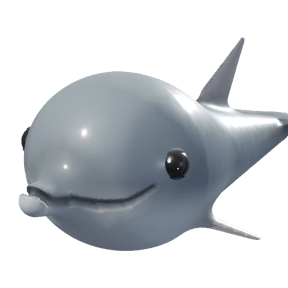
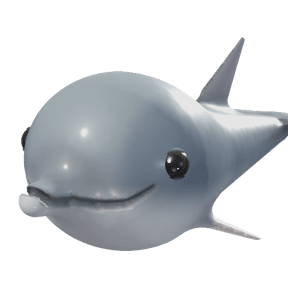
Figur & Hintergrund als je eine Karte, sechs neue Hintergruende, alle Tiere ueberarbeitet
- Gruppen als Zeilen einer Karte mit Zwischentitel und Haarlinie (auch im Onboarding)
- Kirschbluete, Gletscher, Mondnacht, Neon, Prisma, Sonnenstrahl (Lucenta+, 8 Sprachen)
- Licht fuer alle: warmes Gegenlicht von unten, etwas mehr Kontrast und Farbe
- Fuchs freundlicher, Dackel mit Kurzhaarfell, Schildkroete zum Betrachter, Wal groesseres Auge
pruef-alles 9/9.

diff --git a/tools/figuren_rendern/Tiere.swift b/tools/figuren_rendern/Tiere.swift
@@ -454,7 +454,7 @@ func fuchs() -> (SCNNode, Float, V) {
     })
     let w = SCNNode(); w.addChildNode(brustKnoten(koerper))
     tierNase(w, mitte: V(0, -0.290, 1.740), r: V(0.115, 0.08, 0.10), farbe: hex("#161112"))
-    augenEinsetzen(w, kopf, x: 0.34, y: 0.18, r: 0.19, iris: NSColor(calibratedRed: 0.93, green: 0.63, blue: 0.16, alpha: 1), pupille: 0.6, schlitz: true, schlitzBreite: 0.36, ausdruck: Ausdruck(oben: 0.08, unten: 0.15, schraeg: 0.10, funke: 1.4, wange: 0.30))
+    augenEinsetzen(w, kopf, x: 0.34, y: 0.18, r: 0.205, iris: NSColor(calibratedRed: 0.93, green: 0.63, blue: 0.16, alpha: 1), pupille: 0.62, schlitz: true, schlitzBreite: 0.52, ausdruck: Ausdruck(oben: 0.03, unten: 0.10, schraeg: 0.04, funke: 1.6, wange: 0.30))
     // Kopfhaltung je Tier verschieden (Auftrag des Inhabers: nicht alle in dieselbe Richtung).
     w.eulerAngles = SCNVector3(0.08, -0.48, -0.06)
     return (w, 7.6, V(0, 0.22, 0.2))
@@ -743,14 +743,14 @@ func dackel() -> (SCNNode, Float, V) {
         c = mische(c, hell, region(p, V(0, -0.30, 0.95), V(0.30, 0.18, 0.40), 0.4) * 0.5)
         c *= 1 - 0.20 * glatt(1.1, 1.45, p.z)                                    // Schnauzenspitze dunkler
         return c
-    }, rauheit: 0.56, fell: 0.02)
+    }, rauheit: 0.72, fell: 0.02)
     // Dackel: deutlicher Brauenwulst, dunkler schattiert — der treuherzige Dackelblick; Kurzhaar,
     // glatt und anliegend.
     var (braue, braueM) = mitBrauen(kopf, x: 0.27, y: 0.38, laenge: 0.11, dicke: 0.065, winkel: 0.38, farbe: dunkel, staerke: 0.75)
-    braue.haar = haarKarte(kopf, FellKarte(kopf: 0.014, rumpf: 0.016, nase: V(0, -0.17, 1.44), schnauze: 0.7,
+    braue.haar = haarKarte(kopf, FellKarte(kopf: 0.032, rumpf: 0.036, nase: V(0, -0.17, 1.44), schnauze: 0.7,
         augen: augenStellen(kopf, x: 0.30, y: 0.20), augenR: 0.15, braue: 0.3), braue: braueM)
     // Glattes Kurzhaar glaenzt: wenig Abstand, kaum Helligkeitsunterschied, glatte Haut darunter.
-    braue.fellArt = Fell(dichte: 160, dicke: 0.5, aufrecht: 0.15, neigung: 2.0, ursprung: V(0, -0.17, 1.44), wurzel: 0.85, spitze: 1.03, straehnen: 0.05, streuung: 0.04)
+    braue.fellArt = Fell(dichte: 120, dicke: 0.5, aufrecht: 0.32, neigung: 1.6, ursprung: V(0, -0.17, 1.44), wurzel: 0.78, spitze: 1.08, straehnen: 0.08, streuung: 0.07)
     // Dackel: lange Lefzen zwischen Schnauze und Unterkiefer, geschlossen.
     let maul = mitMaul(braue, Maul(kurven: [Kurve(punkte: [V(0, -0.26, 1.43), V(0, -0.32, 1.37)], spitzHinten: false)]
         + paar(Kurve(punkte: [V(0, -0.32, 1.37), V(0.09, -0.36, 1.24), V(0.16, -0.38, 1.04), V(0.21, -0.37, 0.82), V(0.24, -0.32, 0.70)], spitzVorn: false)),
@@ -761,7 +761,7 @@ func dackel() -> (SCNNode, Float, V) {
     })
     let w = SCNNode(); w.addChildNode(brustKnoten(koerper))
     tierNase(w, mitte: V(0, -0.17, 1.44), r: V(0.14, 0.10, 0.10), farbe: hex("#161010"))
-    augenEinsetzen(w, kopf, x: 0.30, y: 0.20, r: 0.16, iris: NSColor(calibratedRed: 0.40, green: 0.22, blue: 0.10, alpha: 1), pupille: 0.58, ausdruck: Ausdruck(oben: 0.08, unten: 0.00, schraeg: 0.38, funke: 1.7, wange: 0))
+    augenEinsetzen(w, kopf, x: 0.30, y: 0.20, r: 0.18, iris: NSColor(calibratedRed: 0.40, green: 0.22, blue: 0.10, alpha: 1), pupille: 0.58, ausdruck: Ausdruck(oben: 0.08, unten: 0.00, schraeg: 0.38, funke: 1.7, wange: 0))
     w.eulerAngles = SCNVector3(0.06, -0.50, 0)
     return (w, 8.0, V(0, 0.10, 0.25))
 }
@@ -912,7 +912,7 @@ func wal() -> (SCNNode, Float, V) {
     for sz: Float in [-1, 1] {
         // Weiter vorn und groesser als beim echten Wal: Nur ein Auge, dessen Oeffnung zum Betrachter zeigt,
         // liest sich als Blick zu ihm (Auftrag des Inhabers: alle sehen einen an).
-        seitenAuge(w, koerper, x: 1.04, y: 0.0, tiefe: 0.04, sz: sz, r: 0.115,
+        seitenAuge(w, koerper, x: 1.04, y: 0.0, tiefe: 0.04, sz: sz, r: 0.14,
                    iris: NSColor(calibratedRed: 0.14, green: 0.11, blue: 0.10, alpha: 1), pupille: 0.7,
                    Ausdruck(oben: 0.22, unten: 0.15, funke: 1.5))
     }
@@ -1032,11 +1032,11 @@ func schildkroete() -> (SCNNode, Float, V) {
     w.addChildNode(kopfKnoten(panzerK, grenze: 2.0, n: 200))
     w.addChildNode(kopfKnoten(hautK, grenze: 2.0, n: 200))
     for sz: Float in [-1, 1] {
-        seitenAuge(w, hautK, x: 1.52, y: 0.21, tiefe: 0.05, sz: sz, r: 0.14,
-                   iris: NSColor(calibratedRed: 0.36, green: 0.26, blue: 0.10, alpha: 1), pupille: 0.6,
-                   Ausdruck(oben: 0.24, unten: 0.13, schraeg: 0.14, funke: 1.5))
+        seitenAuge(w, hautK, x: 1.52, y: 0.21, tiefe: 0.05, sz: sz, r: 0.165,
+                   iris: NSColor(calibratedRed: 0.36, green: 0.26, blue: 0.10, alpha: 1), pupille: 0.62,
+                   Ausdruck(oben: 0.14, unten: 0.10, schraeg: 0.10, funke: 1.7))
     }
-    w.eulerAngles = SCNVector3(-0.35, .pi + 1.05, 0)
+    w.eulerAngles = SCNVector3(-0.22, .pi + 1.30, 0)
     return (w, 9.2, V(0.05, 0.0, 0))
 }
 

diff --git a/src/styles/09-archetypen.css b/src/styles/09-archetypen.css
@@ -393,6 +393,61 @@
       linear-gradient(118deg, #EAF4EC 0%, #D6EBDD 55%, #F4EEDD 100%);
   }
 
+  .hg-kirschbluete{
+    --hg-ink:#3A2230; --hg-muted:#7E5868;
+    background:
+      radial-gradient(9px 6px at 12% 22%, rgba(232,132,168,.8), transparent),
+      radial-gradient(7px 5px at 30% 78%, rgba(240,160,190,.75), transparent),
+      radial-gradient(10px 7px at 58% 30%, rgba(228,120,160,.7), transparent),
+      radial-gradient(7px 5px at 74% 70%, rgba(236,146,180,.8), transparent),
+      radial-gradient(8px 5px at 90% 34%, rgba(232,134,170,.75), transparent),
+      radial-gradient(6px 4px at 46% 88%, rgba(240,164,192,.7), transparent),
+      radial-gradient(6px 4px at 84% 12%, rgba(236,150,182,.7), transparent),
+      radial-gradient(70% 90% at 90% 0%, rgba(255,255,255,.6), transparent 60%),
+      linear-gradient(126deg, #FBEEF2 0%, #F5D6E1 55%, #F0DFE8 100%);
+  }
+  .hg-gletscher{
+    --hg-ink:#1D3140; --hg-muted:#56707F;
+    background:
+      linear-gradient(118deg, transparent 0 38%, rgba(255,255,255,.55) 38% 39%, transparent 39% 100%),
+      linear-gradient(64deg, transparent 0 58%, rgba(170,205,225,.35) 58% 72%, transparent 72% 100%),
+      linear-gradient(150deg, transparent 0 20%, rgba(255,255,255,.4) 20% 34%, transparent 34% 100%),
+      linear-gradient(126deg, #F2F8FB 0%, #D9EAF2 55%, #C4DDEA 100%);
+  }
+  .hg-mondnacht{
+    --hg-ink:#EEF2FA; --hg-muted:#AEBBD4;
+    background:
+      radial-gradient(circle at 84% 34%, #F4F1E2 0 13px, rgba(244,241,226,.6) 14px, rgba(244,241,226,.12) 22px, transparent 48px),
+      radial-gradient(1.2px 1.2px at 16% 24%, #FFFFFF, transparent),
+      radial-gradient(1px 1px at 40% 66%, #E6ECFF, transparent),
+      radial-gradient(1.3px 1.3px at 58% 18%, #FFFFFF, transparent),
+      radial-gradient(1px 1px at 26% 82%, #FFFFFF, transparent),
+      radial-gradient(1px 1px at 68% 78%, #E6ECFF, transparent),
+      linear-gradient(170deg, #1B2A4E 0%, #0E1730 70%, #0A1024 100%);
+  }
+  .hg-neon{
+    --hg-ink:#FDF0FF; --hg-muted:#E9C2F5;
+    background:
+      repeating-linear-gradient(90deg, rgba(90,225,255,.5) 0 1px, transparent 1px 18px) 0 100% / 100% 28% no-repeat,
+      repeating-linear-gradient(180deg, rgba(255,90,220,.65) 0 1px, transparent 1px 7px) 0 100% / 100% 28% no-repeat,
+      linear-gradient(180deg, #2A0B4A 0%, #0B0620 100%) 0 100% / 100% 28% no-repeat,
+      radial-gradient(circle at 80% 72%, #FFD36B 0, #FF8A7A 9px, #FF4FA8 17px, rgba(255,79,168,.35) 19px, transparent 40px),
+      linear-gradient(180deg, #120726 0%, #3E1262 45%, #9A2C78 64%);
+  }
+  .hg-prisma{
+    --hg-ink:#1E1E2E; --hg-muted:#4E4E66;
+    background:
+      radial-gradient(80% 120% at 20% 10%, rgba(255,255,255,.55), transparent 60%),
+      linear-gradient(118deg, #FFD3E8 0%, #D6CCFF 25%, #C2F0F4 50%, #FFF3C4 75%, #FFD0D6 100%);
+  }
+  .hg-sonnenstrahl{
+    --hg-ink:#3A2508; --hg-muted:#7A5A2C;
+    background:
+      repeating-conic-gradient(from 100deg at 0% 0%, rgba(255,255,255,.28) 0deg 4deg, transparent 4deg 11deg),
+      radial-gradient(90% 120% at 0% 0%, #FFF4C8 0%, transparent 70%),
+      linear-gradient(126deg, #FFD978 0%, #F7B548 55%, #EE9A3A 100%);
+  }
+
   /* Die kleinen Vorschauen in der Profilansicht: dieselben Klassen, nur klein. */
   .hg-raster{
     margin-top:14px; display:grid; gap:8px;

diff --git a/src/js/13-figuren.js b/src/js/13-figuren.js
@@ -64,19 +64,22 @@
                        ['voegel', ['eule','pinguin','papagei','flamingo','rotkehlchen']],
                        ['wasser', ['wal','delfin','seeotter','schildkroete','goldfisch']]];
   // knopf(f) liefert den Knopf einer Figur; kopf (optional) steht vor der ersten Gruppe.
-  function figurenGruppiertHTML(knopf, kopf){
-    return (kopf ? '<div class="figur-raster">'+kopf+'</div>' : '')+
+  // Eine Karte, die Gruppen darin als Zeilen mit Zwischentitel (Entscheidung des Inhabers: zusammengehoerig).
+  function figurenGruppiertHTML(knopf, kopf, kopfTitel){
+    return (kopf ? '<div class="figur-gruppe">'+(kopfTitel ? '<div class="hg-gruppe-titel">'+kopfTitel+'</div>' : '')+
+                   '<div class="figur-raster">'+kopf+'</div></div>' : '')+
       FIGUR_GRUPPEN.map(function(g){
         return '<div class="figur-gruppe"><div class="hg-gruppe-titel">'+tx('figur_gruppe_'+g[0])+'</div><div class="figur-raster">'+
           g[1].map(function(id){ return knopf(figurFinden(id)); }).join('')+'</div></div>';
       }).join('');
   }
   var HINTERGRUENDE = ['sternenbild','nordlicht','daemmerung','tiefsee','wueste',
-                       'wald','nebel','papier','welle','kohle','galaxie','glut','lagune','morgentau'];
+                       'wald','nebel','papier','welle','kohle','galaxie','glut','lagune','morgentau',
+                       'kirschbluete','gletscher','mondnacht','neon','prisma','sonnenstrahl'];
   // Angezeigt in Gruppen; frei sind nur die schlichten Flaechen, der Rest ist Lucenta+ (Entscheidung des
   // Inhabers). Ein schon gewaehlter gesperrter Hintergrund bleibt.
-  var HG_GRUPPEN = [['hell', ['papier','nebel','wueste','morgentau']],
-                    ['dunkel', ['kohle','sternenbild','tiefsee','galaxie']],
-                    ['farbe', ['nordlicht','daemmerung','welle','wald','glut','lagune']]];
+  var HG_GRUPPEN = [['hell', ['papier','nebel','wueste','morgentau','kirschbluete','gletscher']],
+                    ['dunkel', ['kohle','sternenbild','tiefsee','galaxie','mondnacht','neon']],
+                    ['farbe', ['nordlicht','daemmerung','welle','wald','glut','lagune','prisma','sonnenstrahl']]];
   var HG_FREI = ['papier','kohle'];
   function hgFrei(id){ return !id || HG_FREI.indexOf(id) >= 0 || istPlus(); }

diff --git a/tools/figuren_rendern/Szene.swift b/tools/figuren_rendern/Szene.swift
@@ -340,6 +340,9 @@ func studio(_ szene: SCNScene) {
     licht(.directional, NSColor(calibratedRed: 1, green: 0.95, blue: 0.86, alpha: 1), 1500, V(-5, 6, 6), schatten: true)  // Hauptlicht
     licht(.directional, NSColor(calibratedRed: 0.78, green: 0.86, blue: 1, alpha: 1), 220, V(6, 0, 4))                   // Fuelllicht
     licht(.directional, NSColor(calibratedRed: 1, green: 0.98, blue: 0.95, alpha: 1), 1100, V(4, 4, -6))                  // Kante
+    // Warmes Gegenlicht von unten vorn, wie eine helle Flaeche vor dem Tier: hellt Kinn und Brust auf,
+    // die sonst unter dem Kopf absaufen, und gibt den Augen einen zweiten, schwachen Glanz.
+    licht(.directional, NSColor(calibratedRed: 1, green: 0.90, blue: 0.80, alpha: 1), 260, V(0, -5, 5))
 }
 
 // Runde 133: `leinwand` vergroessert das Bild um diesen Faktor, ohne den Massstab zu aendern — der
@@ -351,6 +354,8 @@ func rendern(_ szene: SCNScene, groesse: Int, leinwand: Float = 1, kameraAbstand
     let kam = SCNCamera()
     kam.fieldOfView = CGFloat(2 * atanf(tanf(12 * .pi / 180) * leinwand) * 180 / .pi); kam.zNear = 0.1; kam.zFar = 100
     kam.wantsHDR = true; kam.wantsExposureAdaptation = false; kam.exposureOffset = -0.35
+    // Etwas mehr Kontrast und Farbe: Auf Avatargroesse wirkten die Tiere sonst blass und weich.
+    kam.contrast = 0.08; kam.saturation = 1.06
     kam.screenSpaceAmbientOcclusionIntensity = 1.1
     kam.screenSpaceAmbientOcclusionRadius = 0.25
     kam.screenSpaceAmbientOcclusionNormalThreshold = 0.3

diff --git a/src/js/15-profile.js b/src/js/15-profile.js
@@ -51,7 +51,7 @@
         'style="--figur-feld:'+f.feld+';--figur-feld-dunkel:'+figFeldDunkel(f.feld)+'" '+
         'aria-pressed="'+(aktiv===f.id?'true':'false')+'" '+
         'aria-label="'+tx('figur_'+f.id)+'">'+figurHTML(f)+'</button>';
-    }, keine);
+    }, keine, tx('figur_keine'));
     wrap.querySelectorAll('[data-figur]').forEach(function(b){
       b.addEventListener('click', function(){
         var pr = loadProfile();
@@ -72,8 +72,9 @@
       return '<button type="button" class="hg-wahl hg-'+id+(frei ? '' : ' hg-gesperrt')+'" data-hg="'+id+'" aria-pressed="'+
         (aktiv===id?'true':'false')+'" aria-label="'+tx('hg_'+id)+(frei ? '' : ', Lucenta+')+'">'+(frei ? '' : SCHLOSS_KLEIN)+'</button>';
     };
-    wrap.innerHTML = '<div class="hg-raster"><button type="button" class="hg-wahl hg-keine" data-hg="" aria-pressed="'+
-        (aktiv ? 'false' : 'true')+'" aria-label="'+tx('hg_keine')+'">&mdash;</button></div>'+
+    wrap.innerHTML = '<div class="hg-gruppe"><div class="hg-gruppe-titel">'+tx('hg_keine')+'</div><div class="hg-raster">'+
+        '<button type="button" class="hg-wahl hg-keine" data-hg="" aria-pressed="'+
+        (aktiv ? 'false' : 'true')+'" aria-label="'+tx('hg_keine')+'">&mdash;</button></div></div>'+
       HG_GRUPPEN.map(function(g){
         return '<div class="hg-gruppe"><div class="hg-gruppe-titel">'+tx('hg_gruppe_'+g[0])+'</div>'+
           '<div class="hg-raster">'+g[1].map(knopf).join('')+'</div></div>';

diff --git a/src/styles/12-ios.css b/src/styles/12-ios.css
@@ -926,3 +926,17 @@
   #understandContent[data-vs-reiter="combos"] .vs-teil:not([data-vs-teil="combos"]){ display:none; }
   #understandContent[data-vs-reiter="data"] .vs-teil:not([data-vs-teil="data"]){ display:none; }
   #understandContent .vs-teil > .understand-group-label:first-child{ display:none; }
+
+  /* Figur & Hintergrund: EINE Karte je Wahl, die Gruppen darin als Zeilen mit Zwischentitel und feiner Linie
+     (Entscheidung des Inhabers: Unterkategorien ja, aber zusammengehoerig). */
+  .figur-gruppen, .hg-gruppen{
+    gap:0; max-width:none; padding:2px 14px; background:var(--surface); border-radius:var(--radius-m); box-sizing:border-box;
+  }
+  .figur-gruppen > .figur-gruppe, .hg-gruppen > .hg-gruppe{ padding:12px 0; }
+  .figur-gruppen > .figur-gruppe + .figur-gruppe, .hg-gruppen > .hg-gruppe + .hg-gruppe{ border-top:0.5px solid var(--line); }
+  #view-look .figur-gruppen .figur-raster, #view-look .hg-gruppen .hg-raster,
+  .figur-gruppen .figur-raster, .hg-gruppen .hg-raster{ padding:0; background:none; border-radius:0; margin-top:0; }
+  .figur-gruppen .hg-gruppe-titel, .hg-gruppen .hg-gruppe-titel{
+    margin:0 0 8px; font-size:calc(12px * var(--dt, 1)); font-weight:600; letter-spacing:.04em; text-transform:uppercase; color:var(--muted);
+  }
+

diff --git a/src/i18n/fr.js b/src/i18n/fr.js
@@ -1076,6 +1076,12 @@
       'hg_glut': 'Braises',
       'hg_lagune': 'Lagon',
       'hg_morgentau': 'Rosée',
+      'hg_kirschbluete': 'Fleur de cerisier',
+      'hg_gletscher': 'Glacier',
+      'hg_mondnacht': 'Nuit de lune',
+      'hg_neon': 'Néon',
+      'hg_prisma': 'Prisme',
+      'hg_sonnenstrahl': 'Rayon de soleil',
       'hg_gruppe_hell': 'Clairs',
       'hg_gruppe_dunkel': 'Sombres',
       'hg_gruppe_farbe': 'Couleur et lumière',

diff --git a/src/i18n/de.js b/src/i18n/de.js
@@ -777,6 +777,12 @@ CONTENT.de = {
       'hg_glut': 'Glut',
       'hg_lagune': 'Lagune',
       'hg_morgentau': 'Morgentau',
+      'hg_kirschbluete': 'Kirschblüte',
+      'hg_gletscher': 'Gletscher',
+      'hg_mondnacht': 'Mondnacht',
+      'hg_neon': 'Neon',
+      'hg_prisma': 'Prisma',
+      'hg_sonnenstrahl': 'Sonnenstrahl',
       'hg_gruppe_hell': 'Hell',
       'hg_gruppe_dunkel': 'Dunkel',
       'hg_gruppe_farbe': 'Farbe & Licht',

diff --git a/src/i18n/it.js b/src/i18n/it.js
@@ -1076,6 +1076,12 @@
       'hg_glut': 'Brace',
       'hg_lagune': 'Laguna',
       'hg_morgentau': 'Rugiada',
+      'hg_kirschbluete': 'Fiore di ciliegio',
+      'hg_gletscher': 'Ghiacciaio',
+      'hg_mondnacht': 'Notte di luna',
+      'hg_neon': 'Neon',
+      'hg_prisma': 'Prisma',
+      'hg_sonnenstrahl': 'Raggio di sole',
       'hg_gruppe_hell': 'Chiari',
       'hg_gruppe_dunkel': 'Scuri',
       'hg_gruppe_farbe': 'Colore e luce',

diff --git a/src/i18n/tr.js b/src/i18n/tr.js
@@ -1080,6 +1080,12 @@
       'hg_glut': 'Kor',
       'hg_lagune': 'Lagün',
       'hg_morgentau': 'Sabah çiyi',
+      'hg_kirschbluete': 'Kiraz çiçeği',
+      'hg_gletscher': 'Buzul',
+      'hg_mondnacht': 'Ay gecesi',
+      'hg_neon': 'Neon',
+      'hg_prisma': 'Prizma',
+      'hg_sonnenstrahl': 'Güneş ışını',
       'hg_gruppe_hell': 'Açık',
       'hg_gruppe_dunkel': 'Koyu',
       'hg_gruppe_farbe': 'Renk ve ışık',

diff --git a/src/i18n/pt.js b/src/i18n/pt.js
@@ -1076,6 +1076,12 @@
       'hg_glut': 'Brasas',
       'hg_lagune': 'Lagoa',
       'hg_morgentau': 'Orvalho',
+      'hg_kirschbluete': 'Flor de cerejeira',
+      'hg_gletscher': 'Glaciar',
+      'hg_mondnacht': 'Noite de luar',
+      'hg_neon': 'Néon',
+      'hg_prisma': 'Prisma',
+      'hg_sonnenstrahl': 'Raio de sol',
       'hg_gruppe_hell': 'Claros',
       'hg_gruppe_dunkel': 'Escuros',
       'hg_gruppe_farbe': 'Cor e luz',

diff --git a/src/i18n/es.js b/src/i18n/es.js
@@ -1076,6 +1076,12 @@
       'hg_glut': 'Brasas',
       'hg_lagune': 'Laguna',
       'hg_morgentau': 'Rocío',
+      'hg_kirschbluete': 'Flor de cerezo',
+      'hg_gletscher': 'Glaciar',
+      'hg_mondnacht': 'Noche de luna',
+      'hg_neon': 'Neón',
+      'hg_prisma': 'Prisma',
+      'hg_sonnenstrahl': 'Rayo de sol',
       'hg_gruppe_hell': 'Claros',
       'hg_gruppe_dunkel': 'Oscuros',
       'hg_gruppe_farbe': 'Color y luz',
